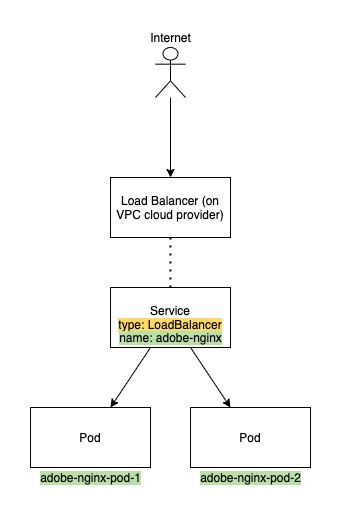
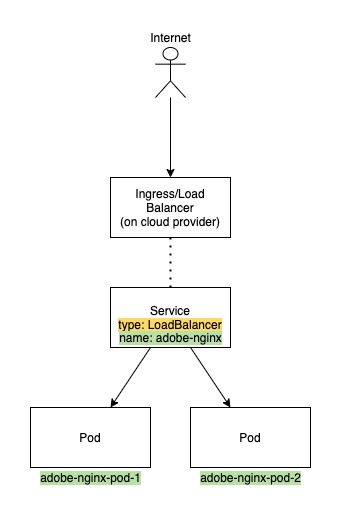
docs: add ingress yaml and snippet to docs

Changed region(s): [[0.3519, 0.3707, 0.6745, 0.4633]]

diff --git a/README.md b/README.md
@@ -50,7 +50,7 @@ Follow the below steps to setup and run the coding challenge python program
 2. I'm ignoring about https secure traffic by not minding about ssl certs in this System design.
 3. Has a k8s cluster provisioned in a cloud provider env.
 4. Has push and pull access to a docker registry in a cloud provider env.
-5. You can reach this nginx server from internet on cloud provided public URL and on port 8080 set in k8s `kind: Service`
+5. Your cloud account where k8s cluster lives has required access and resources to create a LoadBalancer in cloud.
 
 ### Highlevel flow
 
@@ -186,3 +186,22 @@ Based on the needs of your application, set only the minimum level of rules in y
       selector:
         run: adobe-nginx
     ```
+5. Code snippet for k8s Ingress yaml
+  ```yaml
+  apiVersion: networking.k8s.io/v1beta1
+  kind: Ingress
+  metadata:
+    name: adobe-nginx
+    namespace: adobe
+    annotations:
+      kubernetes.io/ingress.class: alb
+      alb.ingress.kubernetes.io/scheme: internet-facing
+      alb.ingress.kubernetes.io/target-type: ip
+  spec:
+    rules:
+    - http:
+        paths:
+        - backend:
+            serviceName: adobe-nginx
+            servicePort: 8080
+  ```
